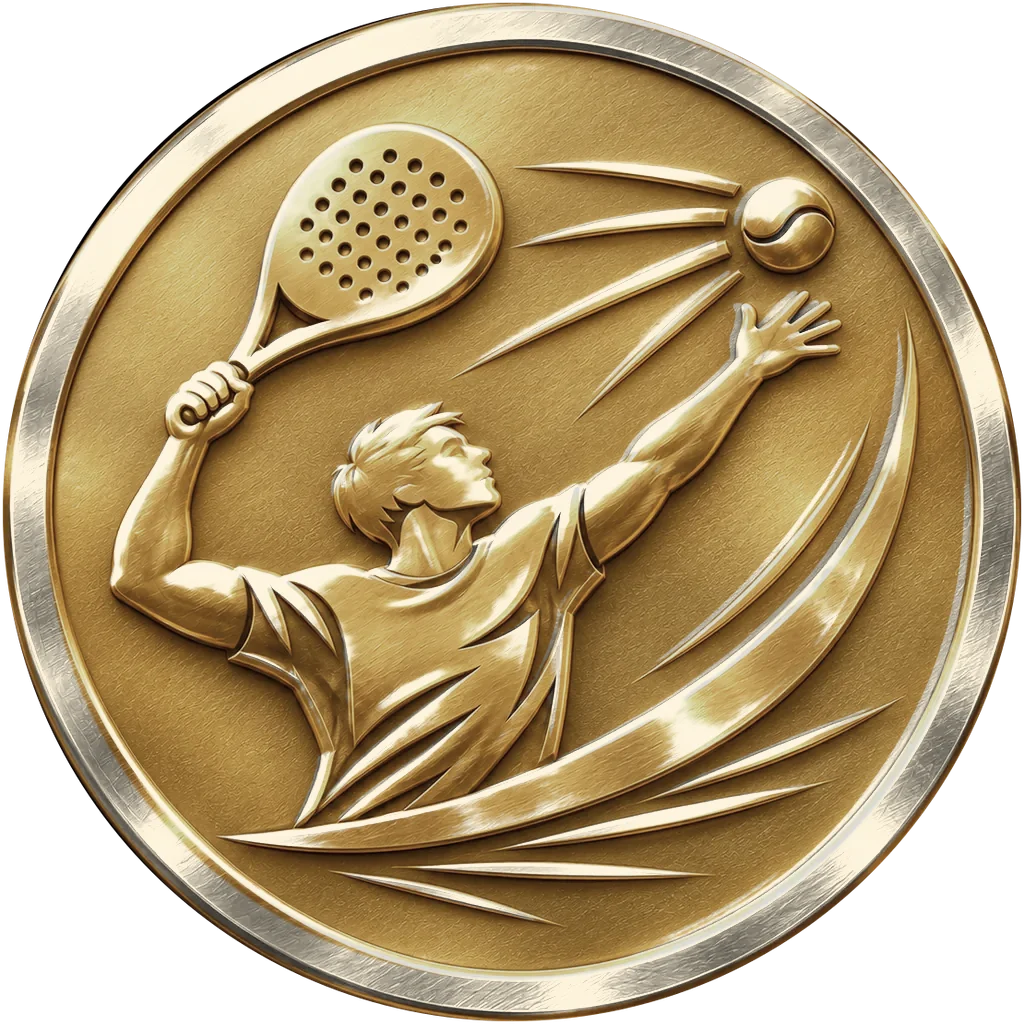
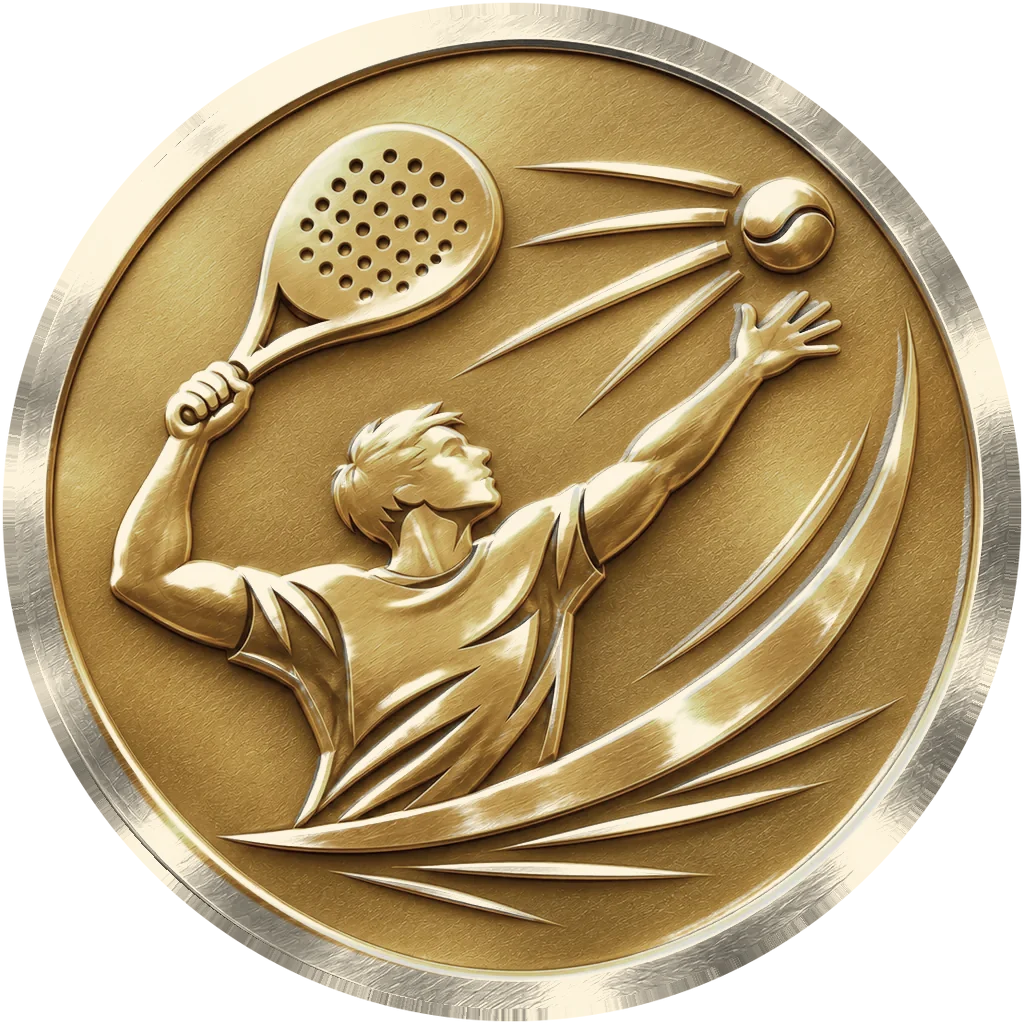
fix: sin línea dorada entre el aro y el canto de la moneda (el borde de las caras toma el color del aro) (v1.22.3-pre.2)

diff --git a/src/lib/appVersion.ts b/src/lib/appVersion.ts
@@ -1,3 +1,3 @@
-export const APP_VERSION = "1.22.3-pre.1";
+export const APP_VERSION = "1.22.3-pre.2";
 
-export const APP_VERSION_LABEL = "v1.22.3-pre.1";
+export const APP_VERSION_LABEL = "v1.22.3-pre.2";

diff --git a/public/sw.js b/public/sw.js
@@ -1,4 +1,4 @@
-const CACHE_VERSION = "smash-lob-v1.22.3-pre.1"
+const CACHE_VERSION = "smash-lob-v1.22.3-pre.2"
 const APP_SHELL = [
   "/offline",
   "/manifest.webmanifest",
